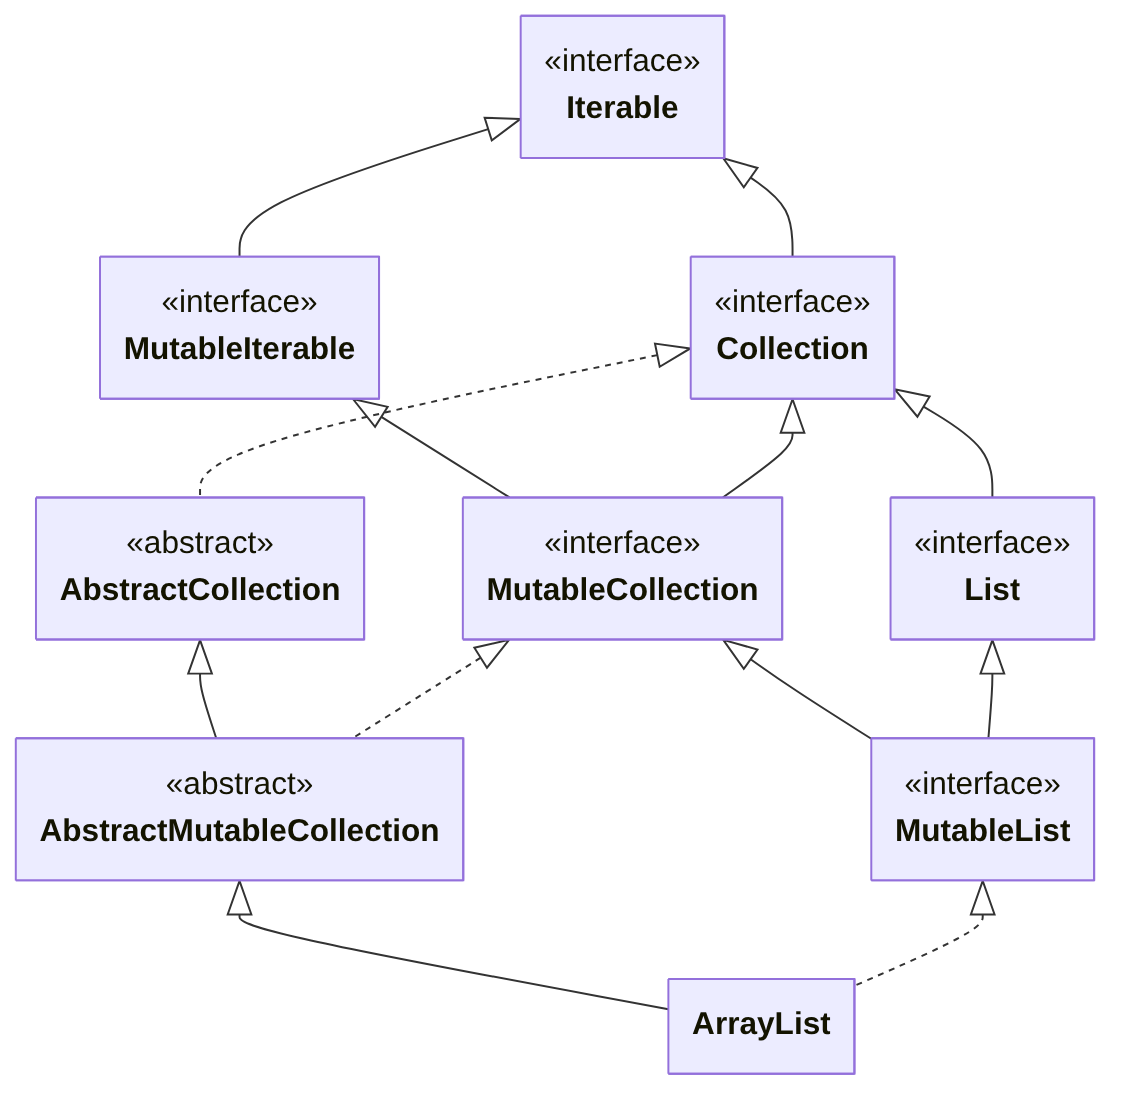
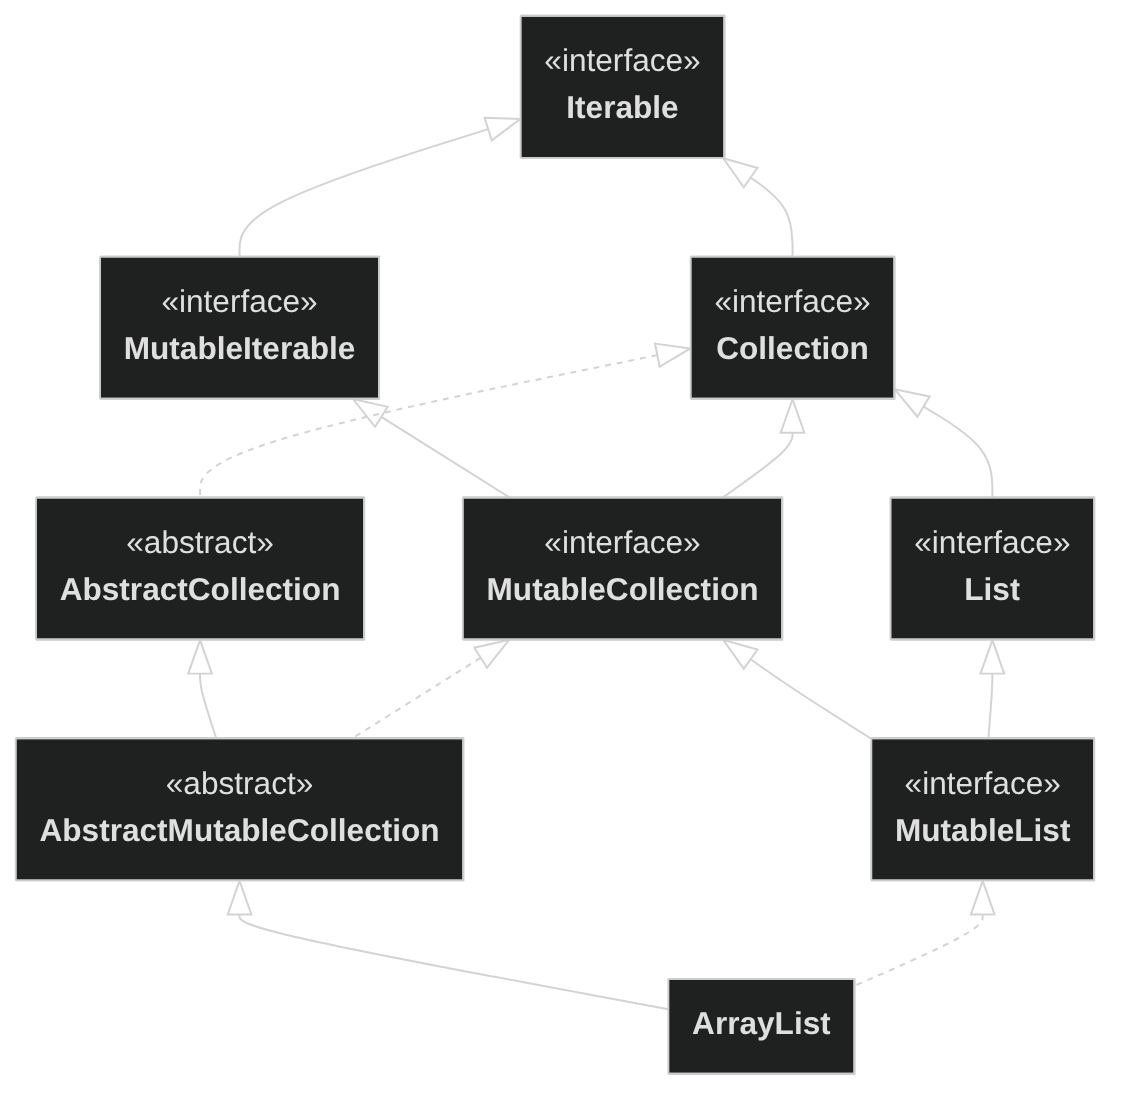
fix: タイトルスライドのfitテキスト・引用符・UML図の視認性を修正
- gaia テーマが全 blockquote に挿入する " " デコレーションを無効化
  （section.quote 専用の装飾引用符は引き続き機能する）
- section.title から align-items: flex-start を除去して
  section.lead の stretch を継承させ、<!--fit--> テキストが
  全幅に展開されるよう修正
- section.title h1 のグラジエントテキスト（marpit-auto-scaling
  ラッパーと干渉して不可視になる）を単色アクセントカラーに変更
- Mermaid UML 図を --theme dark -b transparent で再生成し、
  ダーク背景での線・テキストの視認性を改善
- ビジュアル検証用に playwright を devDependencies へ追加

https://claude.ai/code/session_01PDsCDDs5pJfAZBDieGNqmw

diff --git a/kanpro.css b/kanpro.css
@@ -134,6 +134,13 @@ section blockquote p {
   margin: 0.2em 0;
 }
 
+/* gaia のブロック引用符デコレーション（::before/::after に " を挿入）を無効化。
+   section.quote 専用スタイルで独自の引用符を使うため。 */
+section blockquote::before,
+section blockquote::after {
+  content: none;
+}
+
 /* 出典（em in blockquote）*/
 section blockquote em {
   display: block;
@@ -264,15 +271,10 @@ section.title {
     radial-gradient(ellipse at 80% 75%, rgba(77, 216, 197, 0.08) 0%, transparent 50%),
     var(--c-bg);
   justify-content: center;
-  align-items: flex-start;
 }
 
 section.title h1 {
-  background: linear-gradient(135deg, var(--c-accent) 0%, var(--c-teal) 100%);
-  -webkit-background-clip: text;
-  -webkit-text-fill-color: transparent;
-  background-clip: text;
-  padding-bottom: 0.05em;
+  color: var(--c-accent);
 }
 
 section.title h2 {
